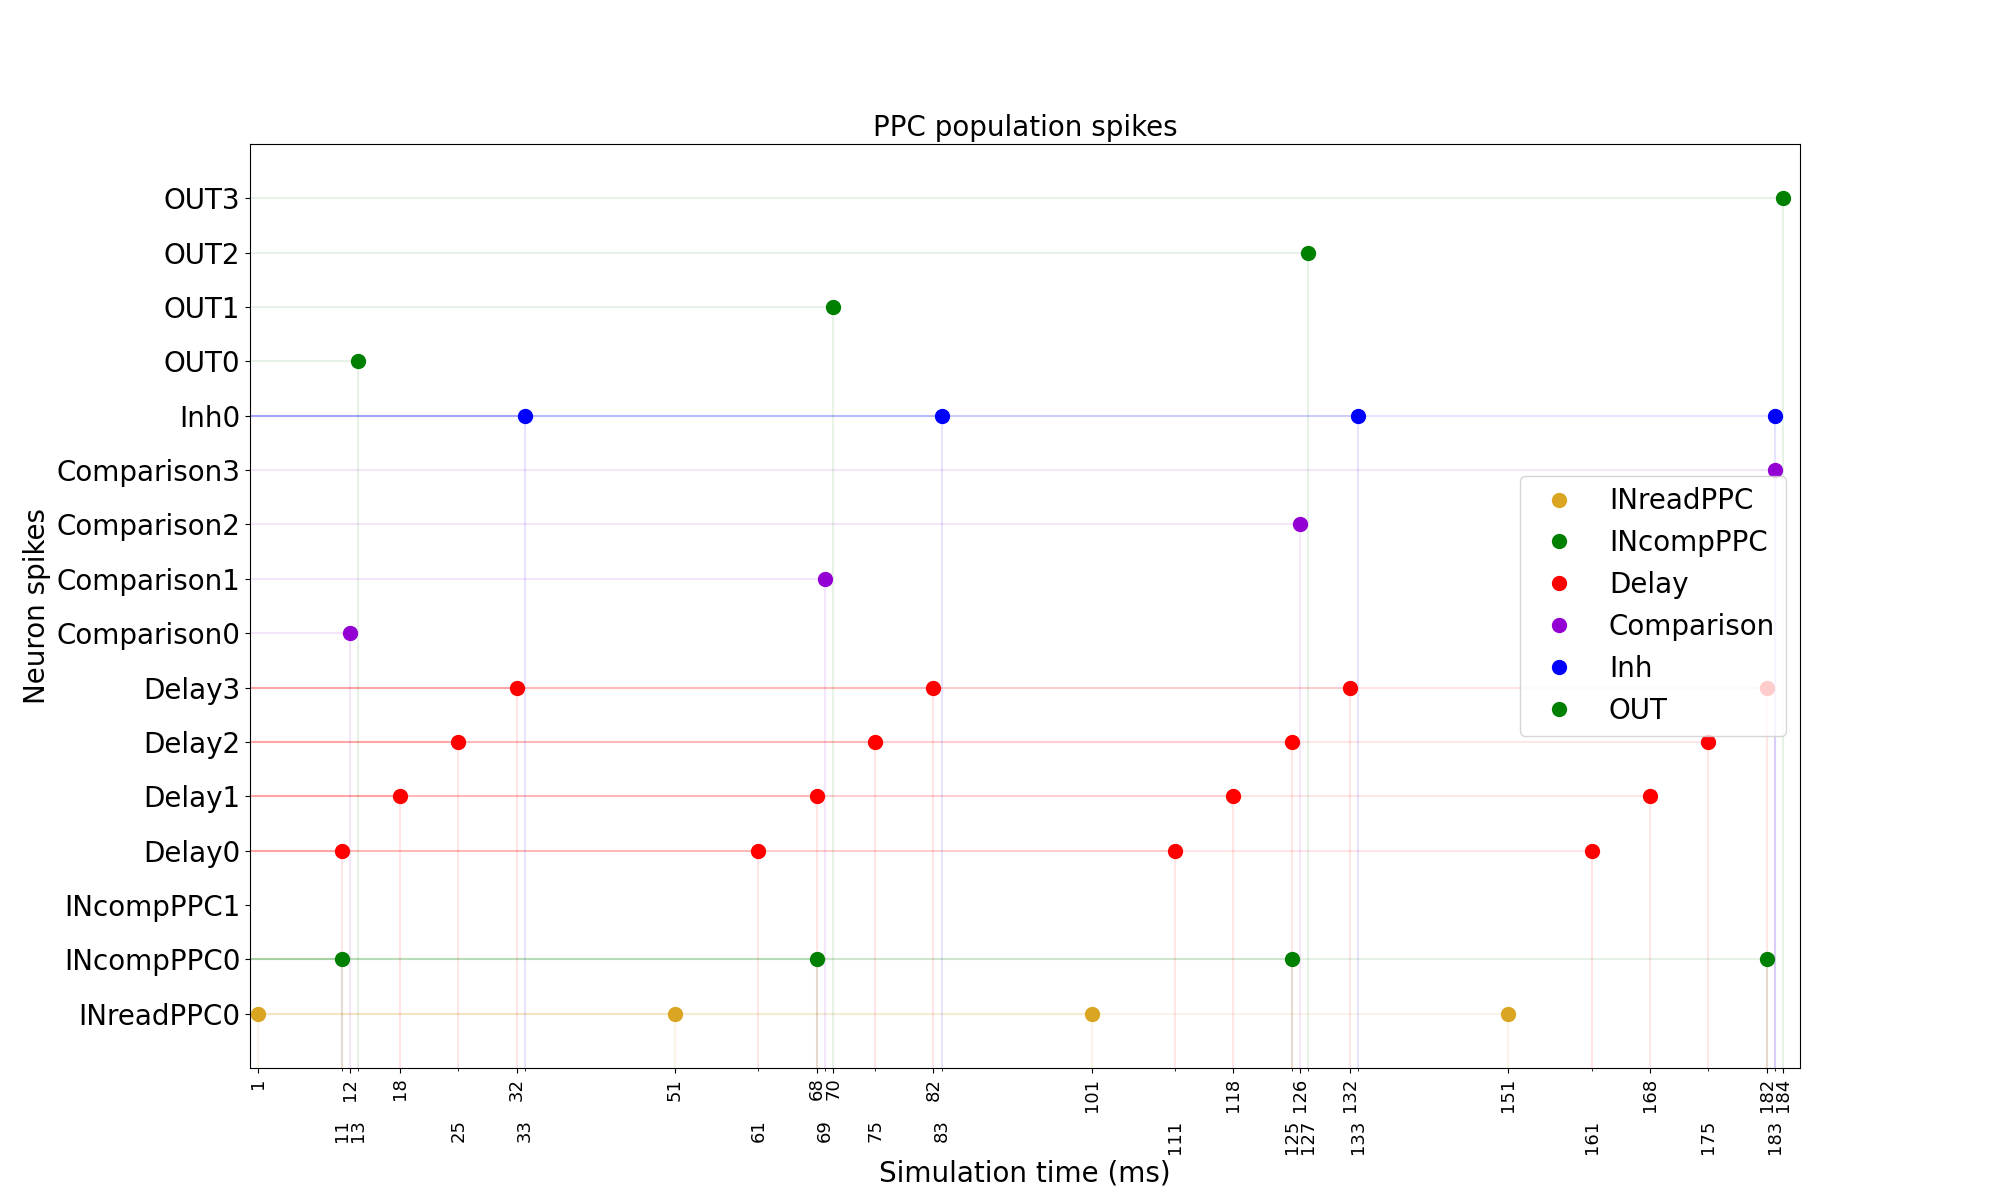
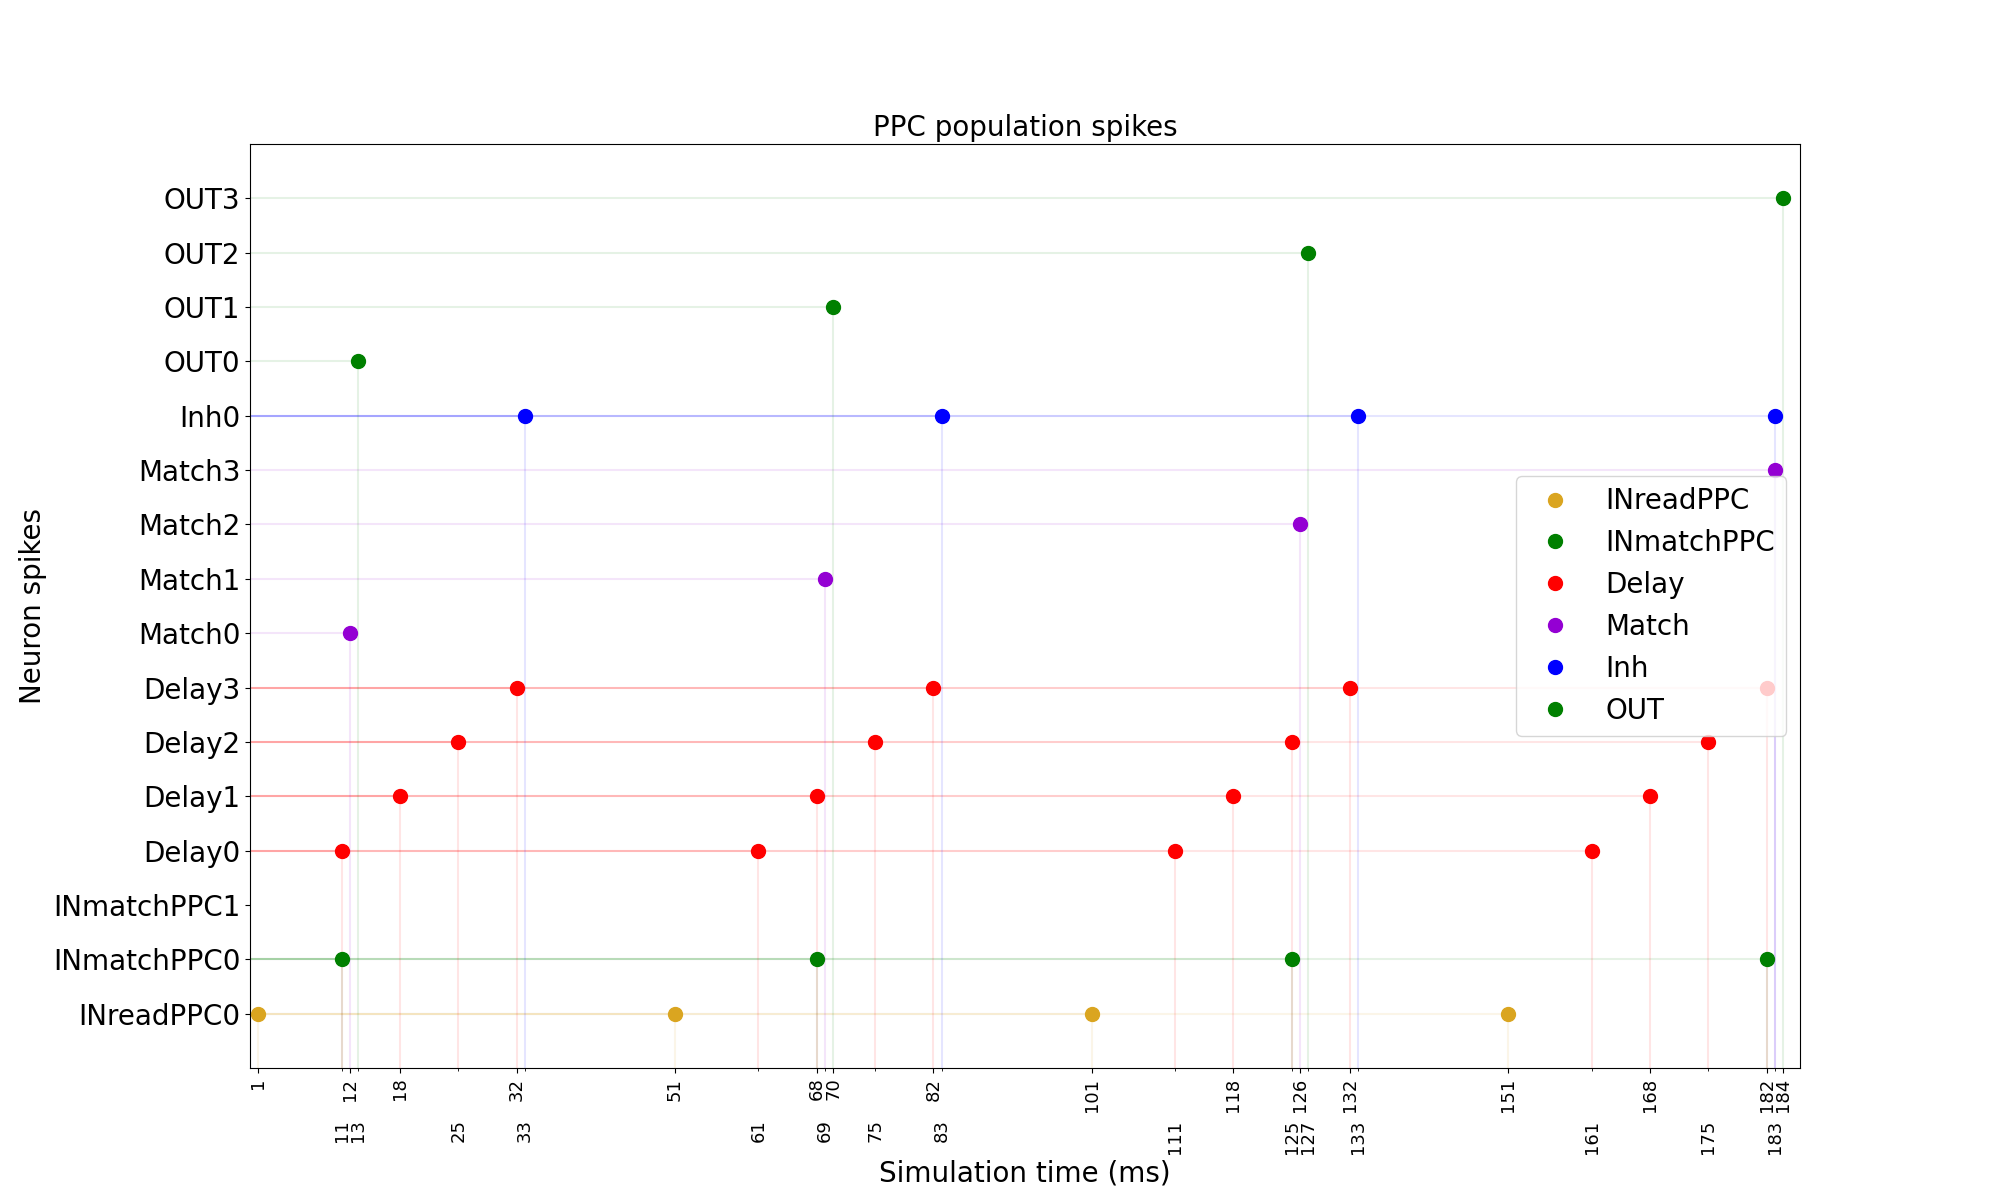
Refactor ppc neuron layer name

diff --git a/posterior_parietal_cortex.py b/posterior_parietal_cortex.py
@@ -4,12 +4,12 @@ import matplotlib.pyplot as plt
 import sys
 
 class PPC:
-    def __init__(self, ReadINLayer, ComparisonINLayer, OLayer, numCommands, operationDelay, initialDelay, sim):
+    def __init__(self, ReadINLayer, MatchINLayer, OLayer, numCommands, operationDelay, initialDelay, sim):
         """Constructor method
         """
         # Storing parameters
         self.ReadINLayer = ReadINLayer
-        self.ComparisonINLayer = ComparisonINLayer
+        self.MatchINLayer = MatchINLayer
         self.OLayer = OLayer
         self.sim = sim
         self.numCommands = numCommands
@@ -35,8 +35,8 @@ class PPC:
         # DelayLayer
         self.DelayLayer = self.sim.Population(self.numCommands, self.sim.IF_curr_exp(**self.neuronParameters), label="DelayLayer")
 
-        # ComparisonLayer
-        self.ComparisonLayer = self.sim.Population(self.numCommands, self.sim.IF_curr_exp(**self.neuronParameters), label="ComparisonLayer")
+        # MatchLayer
+        self.MatchLayer = self.sim.Population(self.numCommands, self.sim.IF_curr_exp(**self.neuronParameters), label="MatchLayer")
 
         # InhLayer
         self.InhLayer = self.sim.Population(1, self.sim.IF_curr_exp(**self.neuronParameters), label="InhLayer")
@@ -62,23 +62,23 @@ class PPC:
                                 self.sim.OneToOneConnector(),synapse_type=self.sim.StaticSynapse(weight=6.0, delay=self.operationDelay),
                                 receptor_type="excitatory")
 
-        # DelayLayer-ComparisonLayer -> 1 to 1, excitatory and static
-        self.DelayL_ComparisonL = self.sim.Projection(self.DelayLayer, self.ComparisonLayer, self.sim.OneToOneConnector(),
+        # DelayLayer-MatchLayer -> 1 to 1, excitatory and static
+        self.DelayL_MatchL = self.sim.Projection(self.DelayLayer, self.MatchLayer, self.sim.OneToOneConnector(),
                                                  synapse_type=self.sim.StaticSynapse(weight=2.5, delay=1.0),
                                                  receptor_type="excitatory")
 
-        # ComparisonINLayer-ComparisonLayer -> all to 1 (for each), excitatory and static
+        # MatchINLayer-MatchLayer -> all to 1 (for each), excitatory and static
         for neuronId in range(self.numCommands):
-            self.sim.Projection(self.ComparisonINLayer, self.sim.PopulationView(self.ComparisonLayer, [neuronId]),
+            self.sim.Projection(self.MatchINLayer, self.sim.PopulationView(self.MatchLayer, [neuronId]),
                                 self.sim.AllToAllConnector(allow_self_connections=True),
                                 synapse_type=self.sim.StaticSynapse(weight=2.5, delay=1.0),
                                 receptor_type="excitatory")
 
-        # ComparisonLayer-OLayer -> 1 to 1, excitatory and static
-        self.ComparisonL_OL = self.sim.Projection(self.ComparisonLayer, self.OLayer,
-                                                      self.sim.OneToOneConnector(),
-                                                      synapse_type=self.sim.StaticSynapse(weight=6.0, delay=1.0),
-                                                      receptor_type="excitatory")
+        # MatchLayer-OLayer -> 1 to 1, excitatory and static
+        self.MatchL_OL = self.sim.Projection(self.MatchLayer, self.OLayer,
+                                             self.sim.OneToOneConnector(),
+                                             synapse_type=self.sim.StaticSynapse(weight=6.0, delay=1.0),
+                                             receptor_type="excitatory")
 
         # DelayLayer-InhLayer
         self.DelayL_InhL = self.sim.Projection(self.sim.PopulationView(self.DelayLayer, [self.numCommands-1]), self.InhLayer,
@@ -87,11 +87,11 @@ class PPC:
                                                                                             delay=1.0),
                                                         receptor_type="excitatory")
 
-        # InhLayer-ComparisonLayer
-        self.InhL_ComparisonL = self.sim.Projection(self.InhLayer, self.ComparisonLayer,
-                                                  self.sim.AllToAllConnector(),
-                                                  synapse_type=self.sim.StaticSynapse(weight=6.0, delay=1.0),
-                                                  receptor_type="inhibitory")
+        # InhLayer-MatchLayer
+        self.InhL_MatchL = self.sim.Projection(self.InhLayer, self.MatchLayer,
+                                               self.sim.AllToAllConnector(),
+                                               synapse_type=self.sim.StaticSynapse(weight=6.0, delay=1.0),
+                                               receptor_type="inhibitory")
 
 
 """
@@ -109,7 +109,7 @@ Test:
 
 def test():
     inputReadSpikes = [1, 51, 101, 151]
-    inputCompSpikes = [[11, 68, 125, 182], []]
+    inputMatchSpikes = [[11, 68, 125, 182], []]
     simTime = 200
     operationDelay = 7
     initialDelay = 9
@@ -131,21 +131,21 @@ def test():
     # Input layers
     #  + Read IN
     ReadINLayer = sim.Population(1, sim.SpikeSourceArray(spike_times=inputReadSpikes), label="ReadINLayer")
-    #  + Comparison IN
-    ComparisonINLayer = sim.Population(2, sim.SpikeSourceArray(spike_times=inputCompSpikes), label="ReadINLayer")
+    #  + Match IN
+    MatchINLayer = sim.Population(2, sim.SpikeSourceArray(spike_times=inputMatchSpikes), label="MatchINLayer")
 
     # Output layer: fire a spike when receive a spike
     OLayer = sim.Population(4, sim.IF_curr_exp(**neuronParameters), label="OLayer")
 
     # PPC
-    ppc = PPC(ReadINLayer, ComparisonINLayer, OLayer, 4, operationDelay, initialDelay, sim)
+    ppc = PPC(ReadINLayer, MatchINLayer, OLayer, 4, operationDelay, initialDelay, sim)
 
     ######################################
     # Parameters to store
     ######################################
     OLayer.record(["spikes"])
     ppc.DelayLayer.record(["spikes"])
-    ppc.ComparisonLayer.record(["spikes"])
+    ppc.MatchLayer.record(["spikes"])
     ppc.InhLayer.record(["spikes"])
 
     ######################################
@@ -166,12 +166,12 @@ def test():
     formatSpikesDelay = []
     for neuron in spikesDelay:
         formatSpikesDelay.append(neuron.as_array().tolist())
-    # Comparison
-    ComparisonLData = ppc.ComparisonLayer.get_data(variables=["spikes"])
-    spikesComp = ComparisonLData.segments[0].spiketrains
-    formatSpikesComp = []
-    for neuron in spikesComp:
-        formatSpikesComp.append(neuron.as_array().tolist())
+    # Match selective
+    MatchLData = ppc.MatchLayer.get_data(variables=["spikes"])
+    spikesMatch = MatchLData.segments[0].spiketrains
+    formatSpikesMatch = []
+    for neuron in spikesMatch:
+        formatSpikesMatch.append(neuron.as_array().tolist())
     # Inh
     InhLData = ppc.InhLayer.get_data(variables=["spikes"])
     spikesInh = InhLData.segments[0].spiketrains
@@ -186,15 +186,15 @@ def test():
 
     # Represent information
     print("IN read = " + str(inputReadSpikes))
-    print("IN comp = " + str(inputCompSpikes))
+    print("IN comp = " + str(inputMatchSpikes))
     print("Delay = " + str(formatSpikesDelay))
-    print("Comparison = " + str(formatSpikesComp))
+    print("Match = " + str(formatSpikesMatch))
     print("Inh = " + str(formatSpikesInh))
     print("OUT = " + str(formatSpikesOut))
-    spikes_plot([[inputReadSpikes], inputCompSpikes, formatSpikesDelay, formatSpikesComp, formatSpikesInh, formatSpikesOut],
-                ["INreadPPC", "INcompPPC", "Delay", "Comparison", "Inh", "OUT"],
+    spikes_plot([[inputReadSpikes], inputMatchSpikes, formatSpikesDelay, formatSpikesMatch, formatSpikesInh, formatSpikesOut],
+                ["INreadPPC", "INmatchPPC", "Delay", "Match", "Inh", "OUT"],
                 ["o", "o", "o", "o", "o", "o"], ["goldenrod", "Green", "Red", "darkviolet", "Blue", "Green"],
-                ["INreadPPC", "INcompPPC", "Delay", "Comparison", "Inh", "OUT"], "PPC population spikes",
+                ["INreadPPC", "INmatchPPC", "Delay", "Match", "Inh", "OUT"], "PPC population spikes",
                 "results/", "ppc", False, True)
 
 
